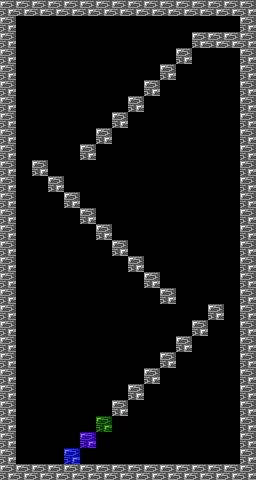
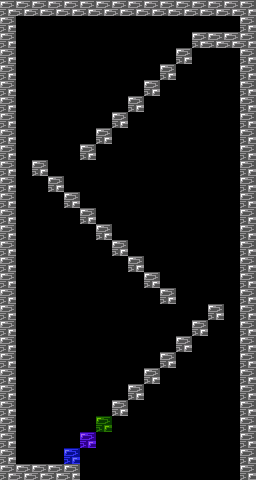
remove the floor on the trap side of level 1 and make it so you die if you fall off the bottom of the screen. make health update properly after you beat the game. Adjusted the tongue speed and made defines for it. Fixed a bug where the tongue wasn't getting reset when you die or stage transition. Ma

Changed region(s): [[0.3125, 0.9688, 0.9375, 1.0]]

diff --git a/ChickenOfTheFarm.c b/ChickenOfTheFarm.c
@@ -60,6 +60,9 @@
 
 #define SET_COLOR( index, color )  PPU_ADDRESS = 0x3F; PPU_ADDRESS = index; PPU_DATA = color
 
+#define TONGUE_EXTEND_DELAY  0
+#define TONGUE_RETRACT_DELAY 4
+
 //
 // TYPEDEFS
 //
@@ -90,6 +93,7 @@ typedef enum _TongueState_t
     TONGUE_OUT,
     TONGUE_RETRACTING,
     TONGUE_RETRACTING2,
+    TONGUE_CLEANUP,
 }
 TongueState_t;
 
@@ -103,7 +107,7 @@ unsigned char sprites[256];
 
 // 16 x (15 + 15)
 // TODO should use a bit per block instead of byte, but this is a lot easier at the moment
-unsigned char collision[480] = {};
+unsigned char collision[496] = {};
 
 #pragma bss-name (pop)
 
@@ -323,6 +327,11 @@ void loadCollisionFromNametables(void)
         garbage = *((unsigned char*)0x2007);
       }
     }
+  }
+
+  for(i = 0; i < 16; i++)
+  {
+      collision[480 + i] = 0;
   }
 }
 
@@ -850,7 +859,7 @@ void update_tongue_sprite(void)
                     sprites[79] = gX - 8;
                 }
                 gTongueState = TONGUE_EXTENDING2;
-                gTongueCounter = 2;
+                gTongueCounter = TONGUE_EXTEND_DELAY;
             }
             else
             {
@@ -909,7 +918,7 @@ void update_tongue_sprite(void)
                     sprites[83] = gX - 8;
                 }
                 gTongueState = TONGUE_OUT;
-                gTongueCounter = 5;
+                gTongueCounter = TONGUE_RETRACT_DELAY;
             }
             else
             {
@@ -978,7 +987,7 @@ void update_tongue_sprite(void)
                     sprites[83] = 0x00;
                 }
                 gTongueState = TONGUE_RETRACTING;
-                gTongueCounter = 5;
+                gTongueCounter = TONGUE_RETRACT_DELAY;
             }
             else
             {
@@ -1047,7 +1056,7 @@ void update_tongue_sprite(void)
                     sprites[79] = 0x00;
                 }
                 gTongueState = TONGUE_RETRACTING2;
-                gTongueCounter = 5;
+                gTongueCounter = TONGUE_RETRACT_DELAY;
             }
             else
             {
@@ -1081,20 +1090,10 @@ void update_tongue_sprite(void)
         case TONGUE_RETRACTING2:
             if( gTongueCounter == 0 )
             {
-                if( gSpeedDirection == 1 )
-                {
-                    sprites[72] = 0x00;
-                    sprites[73] = 0x00;
-                    sprites[74] = 0x00;
-                    sprites[75] = 0x00;
-                }
-                else
-                {
-                    sprites[72] = 0x00;
-                    sprites[73] = 0x00;
-                    sprites[74] = 0x00;
-                    sprites[75] = 0x00;
-                }
+                sprites[72] = 0x00;
+                sprites[73] = 0x00;
+                sprites[74] = 0x00;
+                sprites[75] = 0x00;
                 gTongueState = TONGUE_NORMAL;
                 gTongueCounter = 0;
             }
@@ -1117,12 +1116,19 @@ void update_tongue_sprite(void)
                 gTongueCounter--;
             }
             break;
+        case TONGUE_CLEANUP:
+            for( i = 72; i < 84; i++)
+            {
+                sprites[i] = 0x00;
+            }
+            gTongueState = TONGUE_NORMAL;
+            break;
         case TONGUE_NORMAL:
         default:
             if( (gController1 & BUTTON_B) != 0 && (gPrevController1 & BUTTON_B) == 0)
             {
                 gTongueState = TONGUE_EXTENDING;
-                gTongueCounter = 2;
+                gTongueCounter = TONGUE_EXTEND_DELAY;
 
                 if( gSpeedDirection == 1 )
                 {
@@ -1245,7 +1251,7 @@ void update_sprites(void)
     sprites[12] = gY+8;
     sprites[15] = gX+8;
 
-    if( gIframes > 0 )
+    if(gIframes > 0 && (gIframes & 0x4) == 0)
     {
         sprites[2]  ^= 2;
         sprites[6]  ^= 2;
@@ -1387,8 +1393,21 @@ void next_stage(void)
             gGameState = ENDING_STATE;
 
         default:
+            gTongueState = TONGUE_CLEANUP;
+            gTongueCounter = 0;
+            update_tongue_sprite();
+
             gStage++;
     }
+}
+
+void death(void)
+{
+    gHealth = 8;
+    gStage = 0;
+    gGameState = TITLE_SCREEN_STATE;
+    load_stage();
+    draw_health();
 }
 
 /**
@@ -1685,16 +1704,14 @@ void do_physics(void)
                 if( collision[240 + (((gY + 0x11)&0xF0) ) + ((gX) >> 4)] == 0 &&
                     collision[240 + (((gY + 0x11)&0xF0) ) + (gTmpX >> 4)] == 0 )
                 {
-                    //if(gY < MAX_BOTTOM_BUFFER )
-                    //{
+                    if(gY == 0xF0)
+                    {
+                        death();
+                    }
+                    else
+                    {
                         gY += 1;
-                    //}
-                    //else
-                    //{
-                    //    gVelocity = 0;
-                    //    gJumping = 0;
-                    //    break;
-                    //}
+                    }
                 }
                 else
                 {
@@ -1872,11 +1889,7 @@ void do_physics(void)
             draw_health();
             if( gHealth == 0 )
             {
-                gHealth = 8;
-                gStage = 0;
-                gGameState = TITLE_SCREEN_STATE;
-                load_stage();
-                draw_health();
+                death();
             }
             else
             {
@@ -1909,9 +1922,11 @@ void init_game_state(void)
     gJumping = 0;
     gBounceCounter = 0;
     gHealth = 8;
+    draw_health();
     gFrogAnimationState = FROG_NORMAL;
-    gTongueState = TONGUE_NORMAL;
+    gTongueState = TONGUE_CLEANUP;
     gTongueCounter = 0;
+    update_tongue_sprite();
     gFade = 3;
 }
 

diff --git a/resources/Background/Level1/Level1.h b/resources/Background/Level1/Level1.h
@@ -18,4 +18,4 @@ LIGHT_GREEN,
 
 const unsigned char Nametable_Level1_top_rle[396] = {1,34,35,34,35,34,35,34,35,34,35,34,35,34,35,34,35,34,35,34,35,34,35,34,35,34,35,34,35,34,35,34,35,35,34,35,34,35,34,35,34,35,34,35,34,35,34,35,34,35,34,35,34,35,34,35,34,35,34,35,34,35,34,35,34,34,35,30,1,27,34,35,35,34,30,1,27,35,34,34,35,30,1,21,34,35,34,35,34,35,34,35,35,34,30,1,21,35,34,35,34,35,34,35,34,34,35,30,1,19,34,35,30,1,5,34,35,35,34,30,1,19,35,34,30,1,5,35,34,34,35,30,1,17,34,35,30,1,7,34,35,35,34,30,1,17,35,34,30,1,7,35,34,34,35,30,1,15,34,35,30,1,9,34,35,35,34,30,1,15,35,34,30,1,9,35,34,34,35,30,1,13,34,35,30,1,11,34,35,35,34,30,1,13,35,34,30,1,11,35,34,34,35,30,1,11,34,35,30,1,13,34,35,35,34,30,1,11,35,34,30,1,13,35,34,34,35,30,1,9,34,35,30,1,15,34,35,35,34,30,1,9,35,34,30,1,15,35,34,34,35,30,1,7,34,35,30,1,17,34,35,35,34,30,1,7,35,34,30,1,17,35,34,34,35,30,30,34,35,30,1,23,34,35,35,34,30,30,35,34,30,1,23,35,34,34,35,30,1,3,34,35,30,1,21,34,35,35,34,30,1,3,35,34,30,1,21,35,34,34,35,30,1,5,34,35,30,1,19,34,35,35,34,30,1,5,35,34,30,1,19,35,34,34,35,30,1,7,34,35,30,1,17,34,35,35,34,30,1,7,35,34,30,1,17,35,34,34,35,30,1,9,34,35,30,1,15,34,35,35,34,30,1,9,35,34,30,1,15,35,34,0,1,63,1,0,};
 
-const unsigned char Nametable_Level1_bottom_rle[412] = {1,34,35,30,1,11,34,35,30,1,13,34,35,35,34,30,1,11,35,34,30,1,13,35,34,34,35,30,1,13,34,35,30,1,11,34,35,35,34,30,1,13,35,34,30,1,11,35,34,34,35,30,1,15,34,35,30,1,9,34,35,35,34,30,1,15,35,34,30,1,9,35,34,34,35,30,1,17,34,35,30,1,7,34,35,35,34,30,1,17,35,34,30,1,7,35,34,34,35,30,1,23,34,35,30,30,34,35,35,34,30,1,23,35,34,30,30,35,34,34,35,30,1,21,34,35,30,1,3,34,35,35,34,30,1,21,35,34,30,1,3,35,34,34,35,30,1,19,34,35,30,1,5,34,35,35,34,30,1,19,35,34,30,1,5,35,34,34,35,30,1,17,34,35,30,1,7,34,35,35,34,30,1,17,35,34,30,1,7,35,34,34,35,30,1,15,34,35,30,1,9,34,35,35,34,30,1,15,35,34,30,1,9,35,34,34,35,30,1,13,34,35,30,1,11,34,35,35,34,30,1,13,35,34,30,1,11,35,34,34,35,30,1,11,34,35,30,1,13,34,35,35,34,30,1,11,35,34,30,1,13,35,34,34,35,30,1,9,34,35,30,1,15,34,35,35,34,30,1,9,35,34,30,1,15,35,34,34,35,30,1,7,34,35,30,1,17,34,35,35,34,30,1,7,35,34,30,1,17,35,34,34,35,30,1,5,34,35,30,1,19,34,35,35,34,30,1,5,35,34,30,1,19,35,34,34,35,34,35,34,35,34,35,34,35,34,35,34,35,34,35,34,35,34,35,34,35,34,35,34,35,34,35,34,35,34,35,35,34,35,34,35,34,35,34,35,34,35,34,35,34,35,34,35,34,35,34,35,34,35,34,35,34,35,34,35,34,35,34,0,1,42,48,0,1,5,24,0,1,12,1,0,};
+const unsigned char Nametable_Level1_bottom_rle[378] = {1,34,35,30,1,11,34,35,30,1,13,34,35,35,34,30,1,11,35,34,30,1,13,35,34,34,35,30,1,13,34,35,30,1,11,34,35,35,34,30,1,13,35,34,30,1,11,35,34,34,35,30,1,15,34,35,30,1,9,34,35,35,34,30,1,15,35,34,30,1,9,35,34,34,35,30,1,17,34,35,30,1,7,34,35,35,34,30,1,17,35,34,30,1,7,35,34,34,35,30,1,23,34,35,30,30,34,35,35,34,30,1,23,35,34,30,30,35,34,34,35,30,1,21,34,35,30,1,3,34,35,35,34,30,1,21,35,34,30,1,3,35,34,34,35,30,1,19,34,35,30,1,5,34,35,35,34,30,1,19,35,34,30,1,5,35,34,34,35,30,1,17,34,35,30,1,7,34,35,35,34,30,1,17,35,34,30,1,7,35,34,34,35,30,1,15,34,35,30,1,9,34,35,35,34,30,1,15,35,34,30,1,9,35,34,34,35,30,1,13,34,35,30,1,11,34,35,35,34,30,1,13,35,34,30,1,11,35,34,34,35,30,1,11,34,35,30,1,13,34,35,35,34,30,1,11,35,34,30,1,13,35,34,34,35,30,1,9,34,35,30,1,15,34,35,35,34,30,1,9,35,34,30,1,15,35,34,34,35,30,1,7,34,35,30,1,17,34,35,35,34,30,1,7,35,34,30,1,17,35,34,34,35,30,1,5,34,35,30,1,19,34,35,35,34,30,1,5,35,34,30,1,19,35,34,34,35,34,35,34,35,34,35,34,35,30,1,19,34,35,35,34,35,34,35,34,35,34,35,34,30,1,19,35,34,0,1,42,48,0,1,5,24,0,1,12,1,0,};

diff --git a/resources/generate_graphics.py b/resources/generate_graphics.py
@@ -199,14 +199,14 @@ def create_patterns(folder, pattern_type):
     #long_options = ["help", "in=", "out=", "map=", "c=", "offset=", "RLE"]
     result = 0
     if pattern_type == "Background":
-        result = call(["python3",os.path.join(getPathWithResources(), "sprite_mapper/sprite_pattern_mapper.py"),
+        result = call([sys.executable,os.path.join(getPathWithResources(), "sprite_mapper/sprite_pattern_mapper.py"),
                        "--in=" + image,
                        "--out=" + base_name + "-reduced.png",
                        "--map=" + color_map,
                        "--c=" + base_name + "-tmp.h",
                        "--attribute"])
     else:
-        result = call(["python3",os.path.join(getPathWithResources(), "sprite_mapper/sprite_pattern_mapper.py"),
+        result = call([sys.executable,os.path.join(getPathWithResources(), "sprite_mapper/sprite_pattern_mapper.py"),
                        "--in=" + image,
                        "--out=" + base_name + "-reduced.png",
                        "--map=" + color_map,
